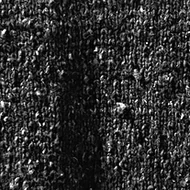
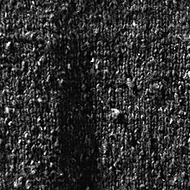
fix(disenar): que la pieza entre entera en compu y que la miniatura muestre el dibujo
En compu la pieza se cortaba abajo: el ancho ahora esta atado al alto de
la ventana, asi entra sin scrollear.

Las miniaturas se recortaban del centro del pecho, y ahi no se ve el
dibujo de todas las piezas: en el guardapampa la greca va en columnas al
costado, y el rayado necesita alto para que entren dos franjas. La zona
del recorte pasa a definirse por dibujo, y la del rayado sale de la pieza
con las franjas mas marcadas.

diff --git a/disenar/index.html b/disenar/index.html
@@ -215,7 +215,8 @@
     .dz-head p{ font-size: 1.08rem; }
     .dz{ display: grid; grid-template-columns: 1fr 1fr; gap: 0 90px; align-items: start; padding-bottom: 90px; }
     .dz-vista{ top: 96px; padding: 24px 0; background: none; align-items: center; min-height: 78vh; }
-    .dz-lienzo{ max-width: 400px; }
+    /* Atada al alto de la ventana: la pieza es 640x860, asi entra entera sin scrollear */
+    .dz-lienzo{ max-width: min(400px, 55vh); }
     .dz-set:first-of-type{ padding-top: 46px; }
   }
   @media (min-width: 1600px){

diff --git a/tools/piezas.py b/tools/piezas.py
@@ -40,9 +40,25 @@ MAPA = {
 # Cuando dos cuellos apuntan al mismo nombre hay que desempatar por foto:
 # "Rayado Tierra" está cargado dos veces, con cuello distinto cada vez.
 DESEMPATE = {('rayado', 'redondo'): 1, ('rayado', 'v'): 0}
+# De qué pieza sale la miniatura del dibujo. Por defecto, la primera; en el
+# rayado la del cuello en v tiene las franjas mucho más marcadas.
+MINI_CUELLO = {'rayado': 'v'}
 
 ANCHO, ALTO = 640, 860
 MINI = 190
+
+# De dónde se saca la miniatura de cada dibujo, en fracciones del cuerpo de la
+# pieza: (centro x, centro y, lado). El centro del pecho no sirve para todos —
+# en el guardapampa la greca va en columnas al costado, y el rayado necesita
+# alto para que entren dos franjas.
+ZONA = {
+    'liso':        (0.50, 0.52, 0.42),
+    'veteado':     (0.50, 0.50, 0.55),
+    'trenza':      (0.50, 0.50, 0.45),
+    'ochos':       (0.50, 0.50, 0.45),
+    'guardapampa': (0.27, 0.52, 0.42),
+    'rayado':      (0.50, 0.50, 0.52),
+}
 
 
 def catalogo():
@@ -131,27 +147,24 @@ def a_gris(im):
     return Image.fromarray(np.dstack([g, g, g, alpha.astype(np.uint8)]), 'RGBA')
 
 
-def parche(gris, alto_rel=(0.40, 0.66), ancho_rel=0.66):
-    """Un cuadrado del tejido para la miniatura del dibujo.
-
-    Se toma del pecho y bien adentro de la pieza: si roza el borde entra el
-    contorno y la miniatura deja de mostrar el punto.
-    """
+def parche(gris, zona):
+    """Un cuadrado del tejido para la miniatura, de donde se vea el dibujo."""
+    cx_rel, cy_rel, lado_rel = zona
     a = np.array(gris)
     solido = a[..., 3] > 200
     ys = np.where(solido.any(axis=1))[0]
-    if not len(ys):
+    xs = np.where(solido.any(axis=0))[0]
+    if not len(ys) or not len(xs):
         return gris.crop((0, 0, MINI, MINI))
+
     alto = ys[-1] - ys[0]
-    y0 = int(ys[0] + alto * alto_rel[0])
-    y1 = int(ys[0] + alto * alto_rel[1])
-    # Columnas que son tejido en TODA esa franja: ahi no entra el contorno.
-    llenas = np.where(solido[y0:y1].all(axis=0))[0]
-    if len(llenas) < 60:
-        llenas = np.where(solido[y0:y1].any(axis=0))[0]
-    cx = int((llenas[0] + llenas[-1]) / 2)
-    lado = int(min((llenas[-1] - llenas[0]) * ancho_rel, y1 - y0, 340))
-    cy = (y0 + y1) // 2
+    ancho = xs[-1] - xs[0]
+    lado = int(min(ancho * lado_rel, alto * 0.34))
+    cx = int(xs[0] + ancho * cx_rel)
+    cy = int(ys[0] + alto * cy_rel)
+    # Que no se salga de la pieza ni agarre el contorno
+    cx = max(xs[0] + lado // 2 + 6, min(xs[-1] - lado // 2 - 6, cx))
+    cy = max(ys[0] + lado // 2 + 6, min(ys[-1] - lado // 2 - 6, cy))
     caja = (cx - lado // 2, cy - lado // 2, cx - lado // 2 + lado, cy - lado // 2 + lado)
     return gris.crop(caja).resize((MINI, MINI), Image.LANCZOS)
 
@@ -179,9 +192,9 @@ def main():
             print('%-14s %-8s <- %-22s %d KB' % (
                 dibujo, cuello, nombre, os.path.getsize(os.path.join(SALIDA, arch)) // 1024))
 
-            if cuello == sorted(cuellos)[0]:
+            if cuello == MINI_CUELLO.get(dibujo, sorted(cuellos)[0]):
                 mini = 'mini-%s.webp' % dibujo
-                parche(gris).save(os.path.join(SALIDA, mini), 'WEBP', quality=88, method=6)
+                parche(gris, ZONA.get(dibujo, (0.5, 0.5, 0.45))).save(os.path.join(SALIDA, mini), 'WEBP', quality=88, method=6)
                 manifiesto[dibujo]['mini'] = mini
 
     with io.open(os.path.join(SALIDA, 'piezas.json'), 'w', encoding='utf-8') as f:
